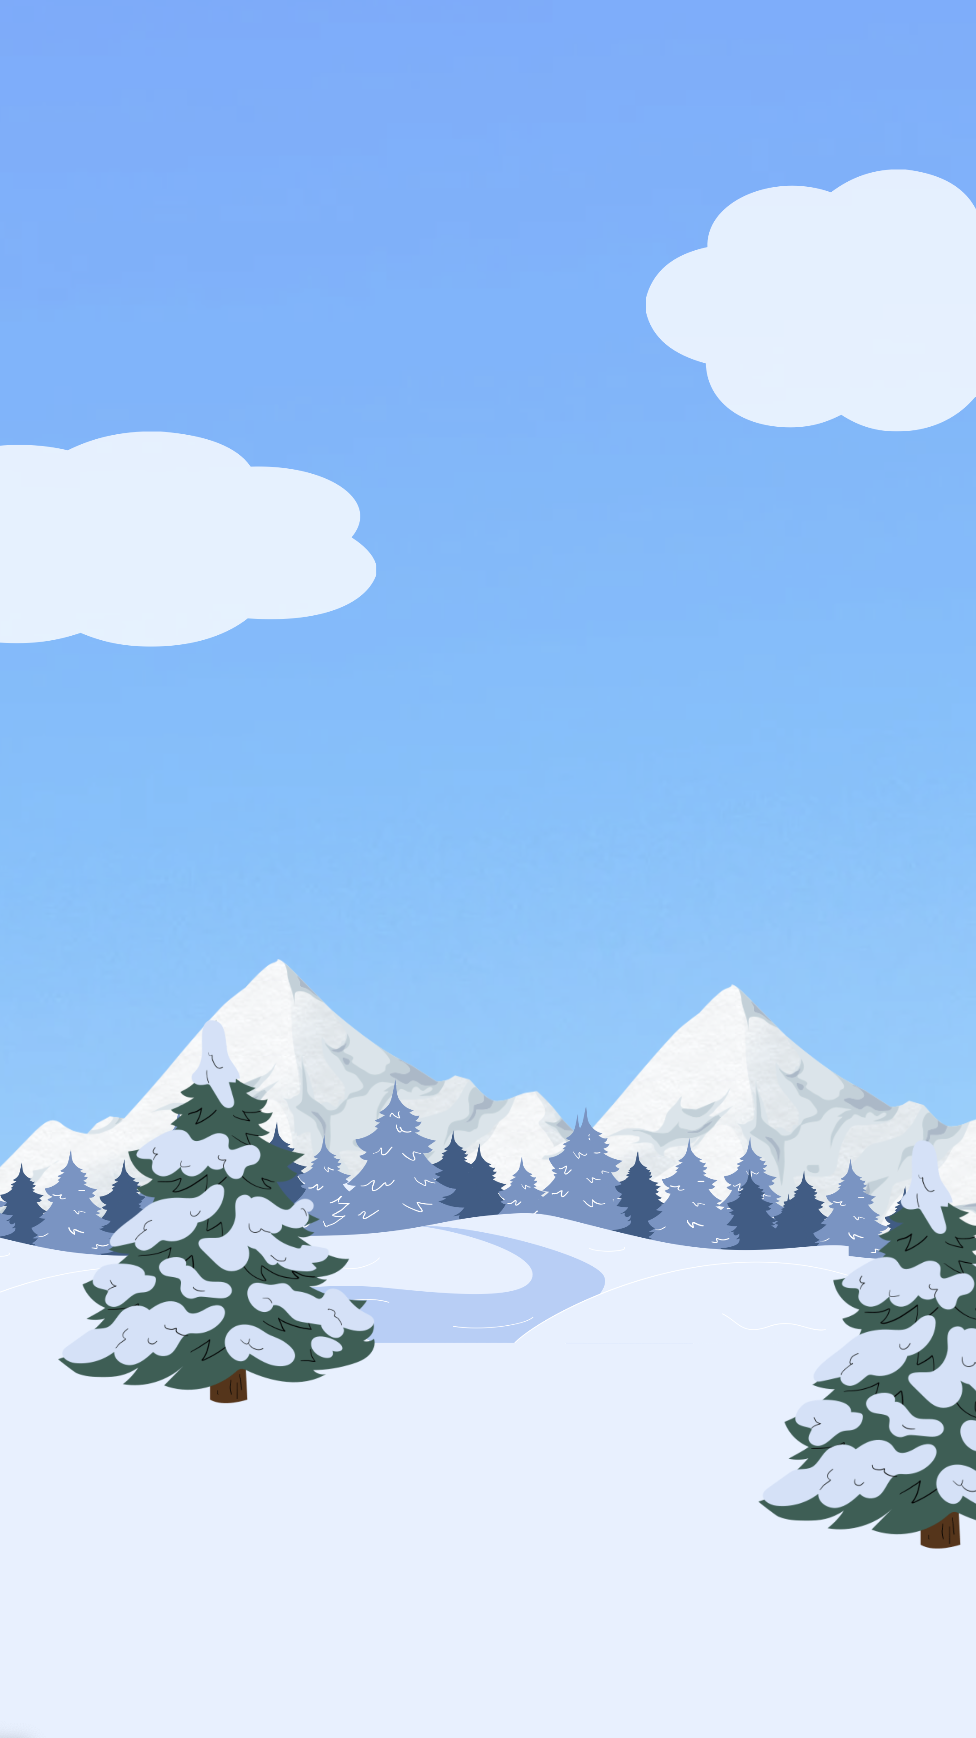
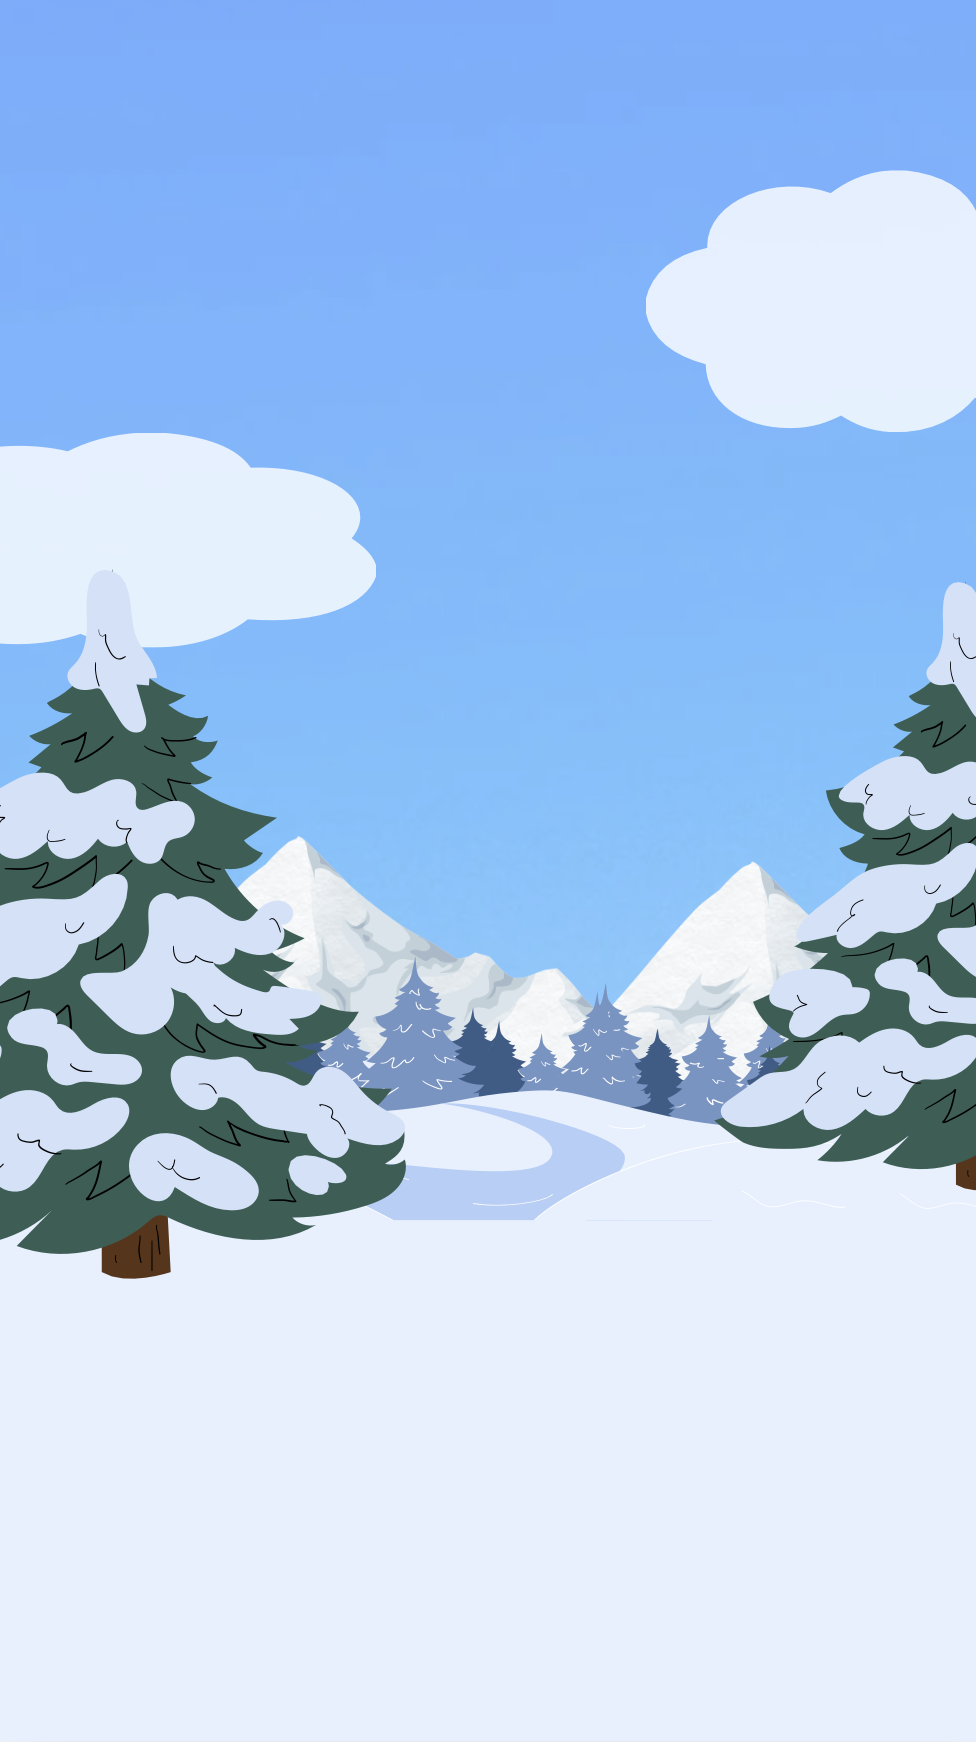
ajout de l'effet neige + yeux qui clignent

Changed region(s): [[0.0, 0.3107, 1.0, 0.901]]

diff --git a/components/snowflake.tsx b/components/snowflake.tsx
@@ -1,0 +1,163 @@
+import React, { useRef, useEffect, useState } from "react";
+import { Animated, StyleSheet, Easing } from "react-native";
+
+const styles = StyleSheet.create({
+  snowflake: {
+    color: "white",
+    position: "absolute",
+  },
+});
+
+const START_Y_POSITION = -340;
+const FALL_SPEEDS = ["slow", "medium", "fast"] as const;
+function getFallSpeed(speed: (typeof FALL_SPEEDS)[number]) {
+  if (FALL_SPEEDS.includes(speed)) {
+    return speed;
+  } else {
+    return "medium";
+  }
+}
+const currentSpeed = getFallSpeed("medium");
+console.log(currentSpeed);
+
+const FALL_DURATIONS: Record<(typeof FALL_SPEEDS)[number], [number, number]> = {
+  fast: [8000, 15000],
+  medium: [15000, 30000],
+  slow: [30000, 60000],
+};
+const SNOWFLAKE_TYPES = ["❄", "❅", "❆"];
+
+interface SnowflakeProps {
+  scene: { width: number; height: number };
+  fallSpeed?: (typeof FALL_SPEEDS)[number];
+  snowflakesCount?: number;
+}
+
+export default function Snowflake({
+  scene,
+  fallSpeed = "medium",
+}: SnowflakeProps) {
+  const [config, setConfig] = useState(() =>
+    getConfig({ scene, fallSpeed, initialDelay: true }),
+  );
+  const animatedY = useRef(new Animated.Value(START_Y_POSITION)).current;
+  const animatedRotation = useRef(new Animated.Value(0)).current;
+  const animatedSideMovement = useRef(new Animated.Value(0)).current;
+
+  const runAnimation = () => {
+    animatedY.setValue(START_Y_POSITION);
+    animatedRotation.setValue(0);
+    animatedSideMovement.setValue(0);
+
+    Animated.loop(
+      Animated.timing(animatedRotation, {
+        toValue: 1,
+        duration: config.rotationDuration,
+        useNativeDriver: true,
+        easing: Easing.linear,
+      }),
+    ).start();
+
+    Animated.loop(
+      Animated.sequence([
+        Animated.timing(animatedSideMovement, {
+          toValue: -1,
+          duration: config.sideMovementDuration,
+          easing: Easing.linear,
+          useNativeDriver: true,
+        }),
+        Animated.timing(animatedSideMovement, {
+          toValue: 1,
+          duration: config.sideMovementDuration,
+          easing: Easing.linear,
+          useNativeDriver: true,
+        }),
+      ]),
+    ).start();
+
+    Animated.sequence([
+      Animated.delay(config.fallDelay),
+      Animated.timing(animatedY, {
+        toValue: scene.height,
+        duration: config.fallDuration,
+        easing: Easing.linear,
+        useNativeDriver: true,
+      }),
+    ]).start(() => {
+      setConfig(getConfig({ scene, fallSpeed }));
+    });
+  };
+
+  useEffect(() => {
+    runAnimation();
+  }, [config]);
+
+  const rotate = animatedRotation.interpolate({
+    inputRange: [0, 1],
+    outputRange: config.rotationDirection
+      ? ["0deg", "360deg"]
+      : ["360deg", "0deg"],
+  });
+
+  const translateX = animatedSideMovement.interpolate({
+    inputRange: [-1, 1],
+    outputRange: [-config.sideMovementAmplitude, config.sideMovementAmplitude],
+  });
+
+  return (
+    <Animated.Text
+      style={[
+        styles.snowflake,
+        {
+          transform: [{ translateY: animatedY }, { rotate }, { translateX }],
+          left: config.xPosition,
+          fontSize: config.size,
+          opacity: config.opacity,
+        },
+      ]}
+    >
+      {config.type}
+    </Animated.Text>
+  );
+}
+
+function getConfig({
+  scene,
+  fallSpeed = "medium",
+  initialDelay = false,
+}: {
+  scene: { width: number; height: number };
+  fallSpeed?: (typeof FALL_SPEEDS)[number];
+  initialDelay?: boolean;
+}) {
+  const { width } = scene;
+
+  const size = randomInt(10, 18);
+  const opacity = randomInt(4, 10) / 10;
+  const type = SNOWFLAKE_TYPES[randomInt(0, 2)];
+  const xPosition = randomInt(0, width);
+
+  const fallDuration = randomInt(...FALL_DURATIONS[fallSpeed]);
+  const fallDelay = randomInt(500, initialDelay ? 20000 : 10000);
+  const rotationDuration = randomInt(2000, 10000);
+  const rotationDirection = randomInt(0, 1) === 1;
+  const sideMovementDuration = randomInt(3000, 8000);
+  const sideMovementAmplitude = randomInt(0, 50);
+
+  return {
+    size,
+    opacity,
+    type,
+    xPosition,
+    fallDuration,
+    fallDelay,
+    rotationDuration,
+    rotationDirection,
+    sideMovementDuration,
+    sideMovementAmplitude,
+  };
+}
+
+function randomInt(min: number, max: number) {
+  return Math.floor(Math.random() * (max - min + 1)) + min;
+}

diff --git a/app/(tabs)/index.tsx b/app/(tabs)/index.tsx
@@ -5,19 +5,65 @@ import {
   Image,
   Pressable,
   Text,
+  Dimensions,
+  ScaledSize,
 } from "react-native";
 import FontAwesome from "@expo/vector-icons/FontAwesome";
 import Colors from "@/constants/Colors";
 import { useColorScheme } from "@/components/useColorScheme";
 import { Link } from "expo-router";
 import { routes } from "@/routes/routes";
+import Snowflake from "../../components/snowflake";
+import { useState, useEffect } from "react";
 
-export default function TabOneScreen() {
+const fullDimensions = Dimensions.get("window");
+
+export default function Snow({
+  snowflakesCount = 100,
+  fallSpeed = "medium",
+  fullScreen = false,
+}: {
+  snowflakesCount?: number;
+  fallSpeed?: "slow" | "medium" | "fast";
+  fullScreen?: boolean;
+}) {
+  const [scene, setScene] = useState<ScaledSize | null>(null);
+  const [showEyesOpen, setShowEyesOpen] = useState(true); // Début avec les yeux ouverts
   const colorScheme = useColorScheme();
+  const dimensionsStyle = fullScreen
+    ? fullDimensions
+    : styles.stretchDimensions;
+
+  useEffect(() => {
+    const intervalEyesOpen = setInterval(() => {
+      setShowEyesOpen(true);
+    }, 1000);
+
+    const intervalEyesClosed = setInterval(() => {
+      setShowEyesOpen(false);
+    }, 2500);
+
+    return () => {
+      clearInterval(intervalEyesOpen);
+      clearInterval(intervalEyesClosed);
+    };
+  }, []);
+
+  const onLayout = ({
+    nativeEvent: {
+      layout: { width, height },
+    },
+  }: {
+    nativeEvent: { layout: { width: number; height: number } };
+  }) => {
+    if (!fullScreen) {
+      setScene({ width, height, scale: 1, fontScale: 1 });
+    }
+  };
 
   return (
     <ImageBackground
-      source={require("@/assets/images/background_index.png")}
+      source={require("@/assets/images/fond_neige.png")}
       style={styles.container}
     >
       <View style={styles.header}>
@@ -27,7 +73,7 @@ export default function TabOneScreen() {
         />
         <Image
           source={require("@/assets/images/logo_triomph.png")}
-          style={styles.logo}
+          style={[styles.logo, { left: -50 }]}
         />
       </View>
 
@@ -48,15 +94,29 @@ export default function TabOneScreen() {
 
       <View style={styles.monsterContainer}>
         <Image
-          source={require("@/assets/images/monstre_v1.png")}
+          source={
+            showEyesOpen
+              ? require("@/assets/images/monster_noel.png")
+              : require("@/assets/images/monster_noel_eyes_closed.png")
+          }
           style={styles.monster}
         />
       </View>
+
       <Link href={routes.TABS.SCAN.getHref()} asChild>
         <Pressable style={styles.button}>
           <Text style={styles.buttonText}>Scanne-moi !</Text>
         </Pressable>
       </Link>
+
+      <View style={[styles.container, dimensionsStyle]} onLayout={onLayout}>
+        {!!scene &&
+          new Array(snowflakesCount)
+            .fill(true)
+            .map((_, i) => (
+              <Snowflake key={i} scene={scene} fallSpeed={fallSpeed} />
+            ))}
+      </View>
     </ImageBackground>
   );
 }
@@ -66,6 +126,10 @@ const styles = StyleSheet.create({
     flex: 1,
     alignItems: "center",
     justifyContent: "center",
+  },
+  stretchDimensions: {
+    width: "100%",
+    height: "100%",
   },
   title: {
     fontSize: 20,
@@ -98,8 +162,8 @@ const styles = StyleSheet.create({
   },
   monsterContainer: {
     position: "absolute",
-    top: "70%",
-    left: "50%",
+    top: "75%",
+    left: "52.5%",
     transform: [{ translateX: -150 }, { translateY: -200 }],
   },
   monster: {
@@ -109,7 +173,8 @@ const styles = StyleSheet.create({
   },
   button: {
     position: "absolute",
-    bottom: "10%",
+    bottom: "5%",
+    left: "28%",
     backgroundColor: "#1E90FF",
     paddingVertical: 15,
     paddingHorizontal: 30,
